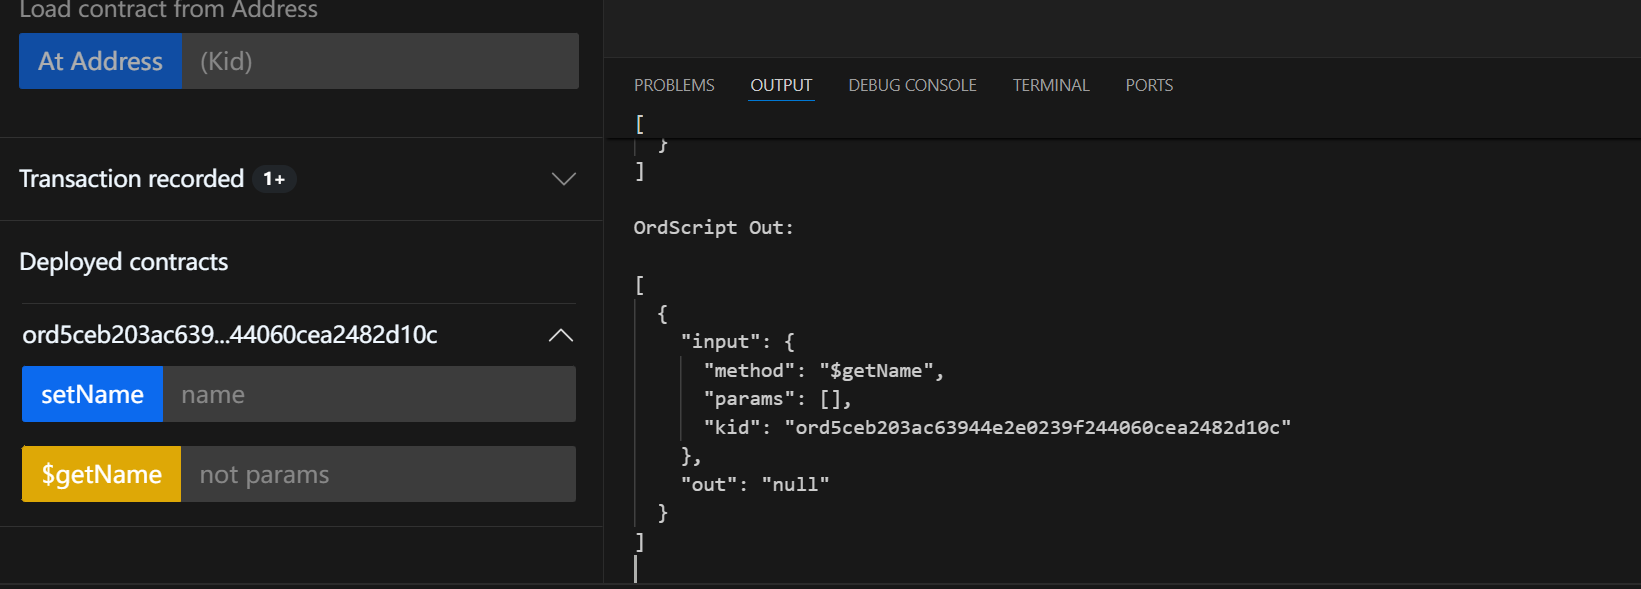
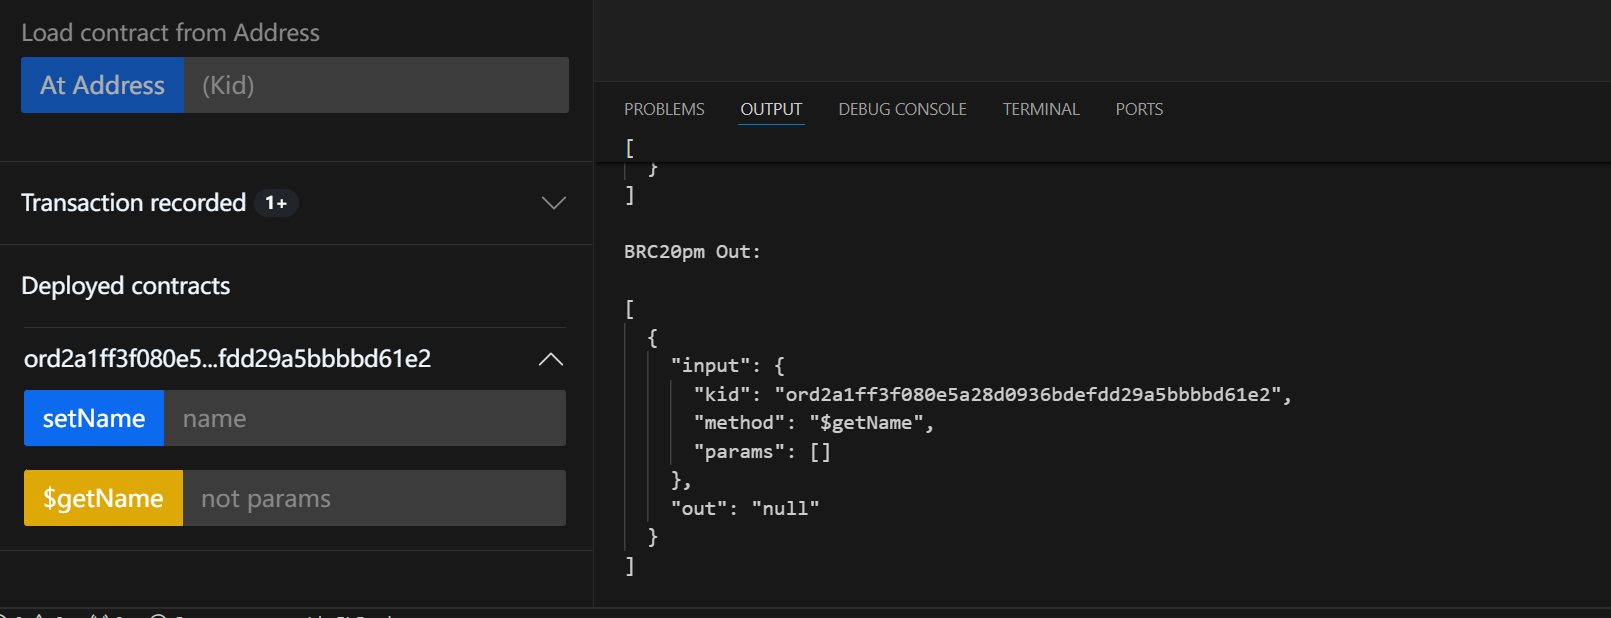
update

diff --git a/docusaurus.config.js b/docusaurus.config.js
@@ -21,20 +21,20 @@ const {
 	toast
 } = require('react-toastify');
 
-const githubOrgUrl = 'https://github.com/OrdScript';
-const domain = 'https://docs.ordscript.com';
+const githubOrgUrl = 'https://github.com/brc20pm';
+const domain = 'https://docs.brc20pm.com';
 
 const customFields = {
 	meta: {
 		title: 'Bitcoin',
 	},
-	copyright: `Made with  💜 by <a target="_blank" rel="noopener noreferrer" href="https://github.com/OrdScript">OrdScript</a> Inc`,
+	copyright: `Made with  💜 by <a target="_blank" rel="noopener noreferrer" href="https://github.com/BRC20pm">BRC20pm</a> Inc`,
 	domain,
 	githubOrgUrl,
 	githubUrl: `${githubOrgUrl}`,
 	githubDocsUrl: `${githubOrgUrl}/documentation`,
 	discordUrl: `https://discord.gg`,
-	twitterUrl: 'https://twitter.com/ordscript',
+	twitterUrl: 'https://twitter.com/brc20pm',
 	version: '0.0.1',
 	liveCodeScope: {
 		Agile,
@@ -55,15 +55,15 @@ const customFields = {
 };
 
 const config = {
-	title: 'ORD Script',
+	title: 'BRC20pm',
 	tagline: 'This is a BRC20 extension module that will bring programmability to Bitcoin. You can think of it as an execution layer in a modular blockchain.',
 	url: customFields.domain,
 	baseUrlIssueBanner: false,
 	baseUrl: '/',
 	onBrokenLinks: 'throw', 
 	favicon: 'img/favicon.ico',
-	organizationName: 'OrdScript',
-	projectName: 'OrdScript',
+	organizationName: 'BRC20pm',
+	projectName: 'BRC20pm',
 	themes: ['@docusaurus/theme-live-codeblock'],
 	scripts: [{
 		src: 'https://snack.expo.io/embed.js',
@@ -99,7 +99,7 @@ const config = {
 			title: '',
 			hideOnScroll: true,
 			logo: {
-				alt: 'ordScript Logo',
+				alt: 'BRC20pm Logo',
 				src: 'img/logo.svg',
 			},
 			items: [

diff --git a/src/theme/Footer/index.tsx b/src/theme/Footer/index.tsx
@@ -37,7 +37,7 @@ const Footer: React.FC = () => {
                 src="/img/logo.svg"
                 title={siteConfig.tagline}
               />
-              <div className={styles.BrandText}>OrdScript</div>
+              <div className={styles.BrandText}>BRC20pm</div>
             </div>
             <div className={styles.Tagline}>{siteConfig.tagline}</div>
             <GithubButton

diff --git a/src/_pages/LandingPage/components/HeaderView/index.tsx b/src/_pages/LandingPage/components/HeaderView/index.tsx
@@ -15,7 +15,7 @@ const HeaderView: React.FC = () => {
   const { windowHeight } = useWindowSize();
   const [toTypeWords] = useState(
     shuffle([
-      'ORD SCRIPT',
+      'BRC20pm',
     ])
   );
 

diff --git a/docs/Introducing.md b/docs/Introducing.md
@@ -1,6 +1,6 @@
 ---
 id: introducing 
-title: Introducing OrdScript
+title: Introducing BRC20pm
 sidebar_label: 📖 Introducing 
 slug: /introducing
 ---
@@ -13,12 +13,12 @@ This is a BRC20 extension module that will bring programmability to Bitcoin. You
 ### Development background
 - In March 2023, the Bitcoin network underwent a landmark change with the release of the Ordinals protocol. Domo then proposed the BRC20 standard, which specifies a method for seamlessly running tokens and NFTs on the Bitcoin network.
 - In May 2023, with the rise of Unisat, MagicEden and other platforms, a flourishing Bitcoin ecosystem was rapidly formed. While these advancements advance Bitcoin’s token mechanics, they lack a key component—developer programming autonomy.
-- ORD Script was born from this vision. It is a revolutionary tool that unlocks endless possibilities for developers. Like Ethereum's Smart Script, OrdScript makes it possible to develop and execute decentralized applications in the BRC20 standard. However, what makes it unique is that it uses JavaScript, a language well-known among developers for its ubiquity and ease of use.
+- ORD Script was born from this vision. It is a revolutionary tool that unlocks endless possibilities for developers. Like Ethereum's Smart Script, BRC20pm makes it possible to develop and execute decentralized applications in the BRC20 standard. However, what makes it unique is that it uses JavaScript, a language well-known among developers for its ubiquity and ease of use.
 - ORD Script is designed to make anything you imagine possible. It brings the versatility of Ethereum smart scripts to the reliable, secure Bitcoin network, but with a twist – using JavaScript. This approach not only makes blockchain development easier, but also opens up new horizons for innovation that were previously limited to more complex programming languages.
 
 ### Conclusion
 
-**OrdScript** is an important extension of the BRC20 standard. It is not only an enhancement to the existing standard, but also a bridge that perfectly combines the stability of Bitcoin with the innovation of modern blockchain technology. Through OrdScript, developers can deploy complex smart scripts on the Bitcoin network, conduct cross-chain transactions, and even develop and manage decentralized applications while maintaining the core security and decentralization of the Bitcoin network.
+**BRC20pm** is an important extension of the BRC20 standard. It is not only an enhancement to the existing standard, but also a bridge that perfectly combines the stability of Bitcoin with the innovation of modern blockchain technology. Through BRC20pm, developers can deploy complex smart scripts on the Bitcoin network, conduct cross-chain transactions, and even develop and manage decentralized applications while maintaining the core security and decentralization of the Bitcoin network.
 
 ## What can it do?
 

diff --git a/docs/off-chain-reporting.md b/docs/off-chain-reporting.md
@@ -6,14 +6,14 @@ slug: /reporting
 ---
 
 
-Off-chain reporting (OCR) is an important step towards increasing the decentralization and scalability of the OrdScript module.
+Off-chain reporting (OCR) is an important step towards increasing the decentralization and scalability of the BRC20pm module.
 For off-chain reporting aggregators, all nodes communicate using a peer-to-peer network. During the communication process, a lightweight consensus algorithm runs and each node reports its data response and signs it. Then transmit a single aggregate response,
-The report contained in the aggregate response is signed by a quorum of nodes and contains the response results from all valid peers. By aggregating the P2P network to verify response reports and checking quorum signatures on responses, we preserve the trustless properties of the OrdScript module.
+The report contained in the aggregate response is signed by a quorum of nodes and contains the response results from all valid peers. By aggregating the P2P network to verify response reports and checking quorum signatures on responses, we preserve the trustless properties of the BRC20pm module.
 
 
 ## How does OCR work?
 
-Protocol execution occurs primarily off-chain on a peer-to-peer network between OrdScript nodes. Whenever a user obtains data through the off-chain reporting interface, the node that receives the request is the leader node that drives the rest of the protocol.
+Protocol execution occurs primarily off-chain on a peer-to-peer network between BRC20pm nodes. Whenever a user obtains data through the off-chain reporting interface, the node that receives the request is the leader node that drives the rest of the protocol.
 The leader asks the remaining nodes to provide response results and compiles them into a report. It then sends this report back to the follower after verifying the authenticity of the signature. The leader will aggregate the 51% threshold report with the quorum's signatures and respond to the requesting client.
 
 

diff --git a/docs/other.md b/docs/other.md
@@ -46,7 +46,7 @@ Although this does seem ridiculous, we can't think of a better way to solve this
 ##### `send || deploy`
 
 ```javascript
-//You can use the BTC related js library to build a Taproot transaction that complies with the OrdScript protocol rules and broadcast it to the chain.
+//You can use the BTC related js library to build a Taproot transaction that complies with the BRC20pm protocol rules and broadcast it to the chain.
 
 //JavaScript Source Code
 let code = '...'
@@ -126,7 +126,7 @@ let data = {
 	source: str2Hex(code)
 }
 
-let response = await post(OrdScriptNode_Url + "/indexer", data);
+let response = await post(BRC20pmNode_Url + "/indexer", data);
 
 console.log(response);
 
@@ -146,13 +146,13 @@ function codeMinify(code) {
 
 ```bash
 script source code and operation instructions are stored on the BTC chain
-You can use any method to perform deduction from the block number starting from OrdScript to the latest block number to obtain the latest results.
+You can use any method to perform deduction from the block number starting from BRC20pm to the latest block number to obtain the latest results.
 ```
 
 
 
-### Who runs OrdScript’s nodes?
+### Who runs BRC20pm’s nodes?
 
 ```bash
-Anyone can run OrdScript node
+Anyone can run BRC20pm node
 ```

diff --git a/docs/guide/preparations.md b/docs/guide/preparations.md
@@ -9,21 +9,21 @@ slug: /guide/preparations
 
 # Development preparation
 
-In this document we will download & install Visual Studio Code and OrdScript plug-ins to prepare for the next development
+In this document we will download & install Visual Studio Code and BRC20pm plugin to prepare for the next development
 
-## install VSCode
+## install Visual Studio Code
 
 Download & Install Visual Studio Code
 
 ```bash
 https://code.visualstudio.com/
 ```
-## install OrdScript-Plugin
+## install BRC20pm-Plugin
 
-Download OrdScript plugin
+Download BRC20pm plugin
 
 ```bash
-https://github.com/ordscript/release/tree/main/plugin
+https://github.com/brc20pm/release/tree/main/plugin
 ```
 
 Install the downloaded plug-in locally:

diff --git a/docs/Installation.md b/docs/Installation.md
@@ -10,11 +10,12 @@ slug: /installation/indexer
 ## Download Link
 
 ```bash
-https://github.com/ordscript/release/tree/main/indexer
+https://github.com/brc20pm/release/tree/main/indexer
 ```
 
 ## Configuration Items
-`ordscript.json`
+`brc20pm.json`
+
 ```json
 {
    "network":2,
@@ -41,7 +42,7 @@ rpc and CertPath can be empty when running the local test environment
 
 ```bash
 #Run the following command in your Linux server
-$ nohup ./ordscript &
+$ nohup ./brc20pm &
 ```
 
 ## Port

diff --git a/docs/guide/first-script.md b/docs/guide/first-script.md
@@ -39,7 +39,7 @@ class Contract {
 
 :::caution
 
-**In the OrdScript, function names starting with $ are read-only functions, _ are private functions, and functions without any symbols are write functions**
+**In the BRC20pm, function names starting with $ are read-only functions, _ are private functions, and functions without any symbols are write functions**
 
 :::
 

diff --git a/docs/standard.md b/docs/standard.md
@@ -46,4 +46,4 @@ We should ensure that these keys always have a higher priority than other keys. 
 
 ## Minimum OutValue
 
-The satoshi of the first output address should be greater than or equal to 2000
+The satoshis of the first output address should be greater than or equal to 2000

diff --git a/docs/guide/create-b721-token.md b/docs/guide/create-b721-token.md
@@ -6,7 +6,7 @@ slug: /guide/create-b721-token
 --- 
 
 
-# Create B721 Token on OrdScript
+# Create B721 Token on BRC20pm
 
 **BIP-721**
 The standard requires the following functionality to be implemented to ensure the operation and management of the token:

diff --git a/docs/guide/create-b20-token.md b/docs/guide/create-b20-token.md
@@ -6,7 +6,7 @@ slug: /guide/create-b20-token
 --- 
 
 
-# Create B20 Token on OrdScript
+# Create B20 Token on BRC20pm
 
 **BIP-20**
 The standard requires the following functionality to be implemented to ensure the operation and management of the token:
